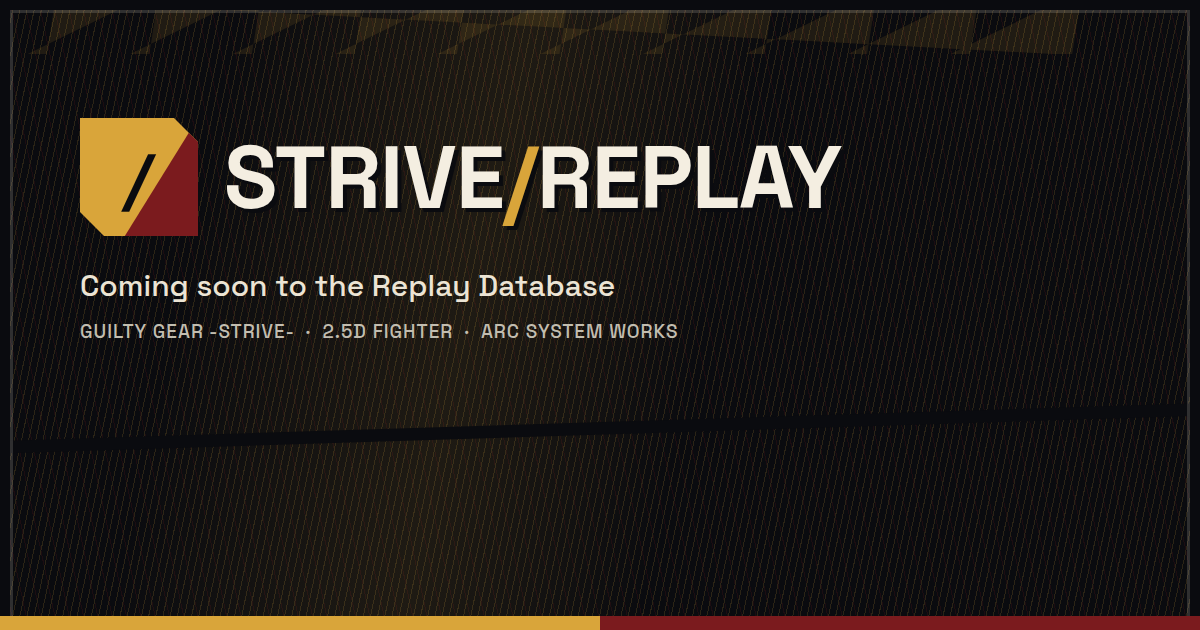
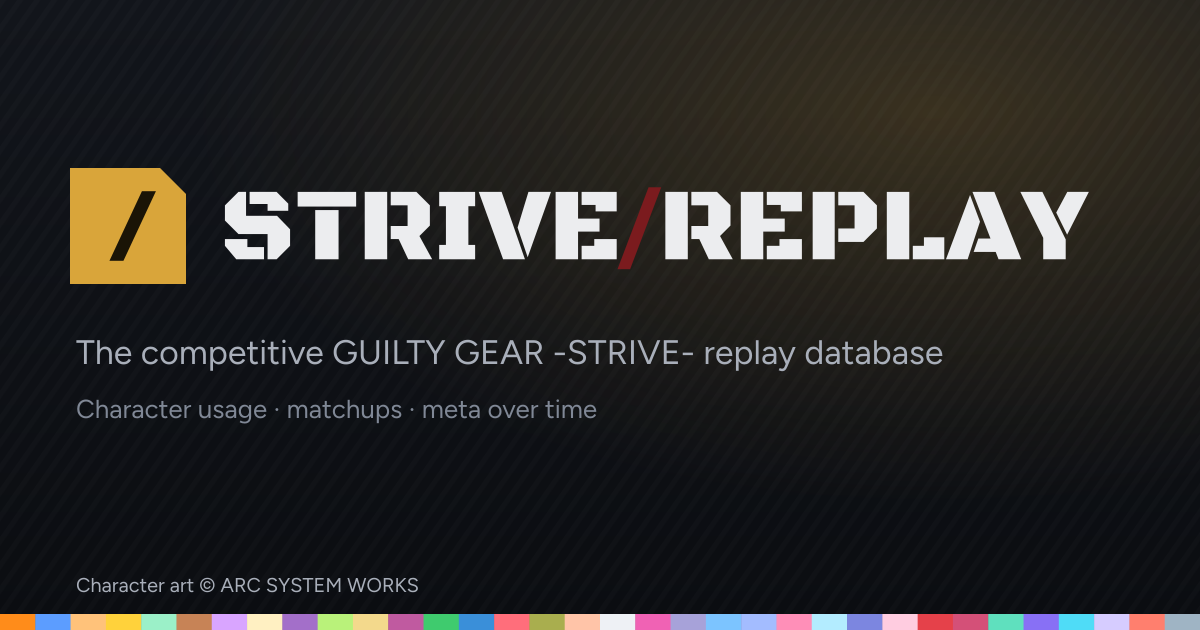
GUILTY GEAR -STRIVE- moves from Coming Soon to the sixth card
One commit, because half a flip is a broken front door: the card, the
rewrites, the sitemap, the JSON-LD, the changelog scope and every gate
fixture that restates them have to land together or the build is either
advertising a game it cannot route to or routing to a game it does not list.

A promotion is a subtraction from UPCOMING and an append to GAMES, and the two
types share only five fields. `fullName` is DROPPED (ShellGame has no such
field), so GUILTY GEAR -STRIVE- leaves the DOM at promotion and lives in the
card art alone, exactly as MARVEL Tōkon's and FATAL FURY's do. The card
carries the short 'Guilty Gear Strive'; verify-cutover asserts the full
spelling against summary.json, which is the one place it is still checked.

The card art is now a byte-copy of the game's own public/og-default.png. It
had to be: the coming-soon art says "Coming soon to the Replay Database" in
40px type, so leaving it would have shipped a live, clickable card advertising
itself as unavailable. The swap also carries "Character art © ARC SYSTEM
WORKS" onto the front door, baked into the image — the Fan Kit licence's
Article 3.1 attribution travelling with the art it covers.

The accent did NOT move. Tōkon's card followed its game at flip time
(#00a6ff → #03a5fe) and the rule is that the theme wins, so this is worth
saying: the shipped skin resolved the gold-foil capsule to #d9a53a, the same
hex the handoff had anchored, and there was nothing to follow. Its two tight
[…]

diff --git a/lib/games.ts b/lib/games.ts
@@ -180,6 +180,56 @@ export const GAMES: ShellGame[] = [
     sitemapUrl: `${SITE_URL}/ffcotw/sitemap.xml`,
     summaryUrl: '/ffcotw/data/summary.json',
   },
+  {
+    // Game #6, appended per the note above — and the first PROMOTION out of
+    // UPCOMING since Tōkon's. Its coming-soon card is retired in this same
+    // commit, which is what the `art` swap below is really about: the announced
+    // art says "Coming soon to the Replay Database" in 40px type, so leaving it
+    // would ship a live, clickable card advertising itself as unavailable.
+    id: 'ggst',
+    // The short form, parallel to 'MARVEL Tōkon' and 'FATAL FURY: CotW'. The
+    // official title is GUILTY GEAR -STRIVE-, and its hyphen-flanked wordmark
+    // both wraps in the title column and reads as a stray dash where it breaks.
+    // The full spelling survives in the card art, which sets it in the lockup.
+    // NOTE: verify-cutover.mjs must use the FULL title in its own table — it
+    // asserts against summary.json, which the game emits with the full name.
+    name: 'Guilty Gear Strive',
+    shortName: 'STRIVE',
+    slug: 'ggst',
+    url: '/ggst',
+    // The game's theme.css --color-primary. UNCHANGED from the coming-soon
+    // card's provisional value, which is worth saying out loud because the rule
+    // is that the theme wins at flip time and Tōkon's card really did move
+    // (#00a6ff → #03a5fe): this skin resolved the gold-foil capsule to the same
+    // hex the handoff had anchored, so there was nothing to follow. Its two
+    // tight neighbours are unchanged with it — CotW's #ffd21f at Δhue 11 with
+    // ΔL .125 against a .12 floor, and the engine's umbrella --color-secondary
+    // #fbc318 at Δhue 5 with ΔL .00, separated on chroma alone. Anyone
+    // re-sampling this gold has to clear BOTH, not just the live accents.
+    accent: '#d9a53a',
+    // A byte-copy of the game repo's own public/og-default.png, the way 2XKO,
+    // Tekken, SF6 and CotW's were made. This one carries "Character art
+    // © ARC SYSTEM WORKS" baked into the image — the Fan Kit licence's
+    // Article 3.1 attribution travelling with the art onto the front door. It
+    // is the only card art here with a licence obligation attached, so it may
+    // be re-exported from that repo but never cropped past the notice.
+    // It inherits the copy-line disagreement described on `art` above: the
+    // lockup reads "Character usage · matchups · meta over time" while the
+    // tagline says something else entirely. Accepted on the same terms as the
+    // other five — ~5px on a rendered card — not overlooked.
+    art: '/img/games/ggst.png',
+    // NO hover loop, deliberately: CotW shipped its own flip without one and
+    // gained it in a later commit, and the field is optional precisely so a
+    // launch is not gated on trimming a trailer. This card shows static art.
+    // The archive's own shape is the line worth having here, and no sibling can
+    // claim it: the eight channels upload whole SETS (every one's median run
+    // is over three and a half minutes, against a ~3-minute Strive game), while
+    // the Replay Theater catalogue contributes single matches cut out of
+    // tournament VODs at an offset. Not a count, and it cannot go stale.
+    tagline: 'Whole sets, and matches cut from tournament streams',
+    sitemapUrl: `${SITE_URL}/ggst/sitemap.xml`,
+    summaryUrl: '/ggst/data/summary.json',
+  },
 ];
 
 /**
@@ -237,9 +287,17 @@ export interface UpcomingGame {
   tagline: string;
 }
 
-// Empty from 2026-08-14 (MARVEL Tōkon's promotion into GAMES) until these three
-// were announced. The narrow type above is what kept that window honest, and it
-// is what keeps these three out of the sitemap index and the ItemList now.
+// Empty from 2026-08-14 (MARVEL Tōkon's promotion into GAMES) until three games
+// were announced; two, since Guilty Gear Strive was promoted into GAMES on
+// 2026-09-09. The narrow type above is what kept that window honest, and it is
+// what keeps the remaining two out of the sitemap index and the ItemList now.
+//
+// PROMOTING ONE IS A SUBTRACTION HERE AND AN APPEND THERE, in the same commit.
+// Strive's entry did not move between the arrays: UpcomingGame and ShellGame
+// share only five of their fields, so `fullName` was DROPPED (ShellGame has no
+// such field) and `url`, `sitemapUrl` and `summaryUrl` were added. The full
+// title therefore leaves the DOM at promotion — it lives in the card art and
+// nowhere else, exactly as MARVEL Tōkon's and FATAL FURY's do.
 //
 // ORDER IS DISPLAY ORDER. Unlike GAMES — where APPEND-don't-insert protects a
 // POSITIONAL JSON-LD gate — this array reaches only the card grid, which renders
@@ -253,41 +311,12 @@ export interface UpcomingGame {
 // At flip time THE THEME WINS: Tōkon's card carried #00a6ff and the shipped skin
 // resolved to #03a5fe, and the card followed the game rather than the reverse.
 //
-// The separation rule every one of them clears, against all five live accents,
-// the umbrella teal, and each other: OKLCH Δhue ≥ 25, or Δhue ≥ 10 with
-// |ΔL| ≥ .12. It is the rule the game skins already use, and it is why FATAL
-// FURY demoted its own sampled red (11° from Tekken) to secondary.
+// The separation rule every one of them clears, against all SIX live accents
+// (Strive's gold joined that set when it was promoted), the umbrella teal, and
+// each other: OKLCH Δhue ≥ 25, or Δhue ≥ 10 with |ΔL| ≥ .12. It is the rule the
+// game skins already use, and it is why FATAL FURY demoted its own sampled red
+// (11° from Tekken) to secondary.
 export const UPCOMING: UpcomingGame[] = [
-  {
-    id: 'ggst',
-    // GUILTY GEAR -STRIVE- — developed AND published by Arc System Works,
-    // verified on guiltygear.com/ggst/en/ (© ARC SYSTEM WORKS) and
-    // arcsystemworks.com/game/guilty-gear-strive/. The vendor's own line for it
-    // is "The ever-evolving 2.5D fighting game", which is where the tagline's
-    // "ever-evolving 2.5D fighter" comes from rather than from anyone's memory.
-    // THIS IS THE ONE CARD THAT KEEPS THE ASW CREDIT. It closed the Granblue
-    // line and Tōkon's too until this pass, which had three of eight cards
-    // ending the same way; Strive is where it belongs, because ASW developed
-    // AND published this one.
-    name: 'Guilty Gear Strive',
-    fullName: 'GUILTY GEAR -STRIVE-',
-    shortName: 'STRIVE',
-    slug: 'ggst',
-    // PROVISIONAL, and the one accent here that may still move: it is
-    // --color-primary from the in-progress skin
-    // (ggst-replay-database/design/handoff/tokens.css), whose own header calls
-    // the gold anchored-but-unsampled — it comes from the gold-foil logo
-    // variant on the store capsules, not from a pixel sample.
-    // GOLD RATHER THAN THE LOGO'S RED, by that skin's collision lever: the
-    // sampled letterform red is #7b1b1e, and at any lightness that could carry
-    // text it lands on Tekken's #e13048. FATAL FURY demoted its own red for the
-    // same reason; neither game ships red-primary.
-    // Tightest neighbour is FATAL FURY's #ffd21f at Δhue 11 — cleared on
-    // lightness alone, ΔL .125, right at the .12 floor. Δhue 30 from SF6.
-    accent: '#d9a53a',
-    art: '/img/games/ggst.png',
-    tagline: "Arc System Works' ever-evolving 2.5D fighter",
-  },
   {
     id: 'avatar',
     // Avatar Legends: The Fighting Game. The studio credits are the one fact
@@ -332,11 +361,16 @@ export const UPCOMING: UpcomingGame[] = [
     // Granblue Fantasy Versus: Rising — "© Cygames, Inc. Developed by ARC
     // SYSTEM WORKS", verbatim from the footer of the official site
     // rising.granbluefantasy.jp/en/about. That single line is both credits, and
-    // the tagline carried both until this pass. It names CYGAMES ONLY now: ASW
-    // also closed the Strive line two entries up, and a reader scanning eight
-    // cards met the same four words twice. Cygames is the rights holder, which
-    // is the half that identifies the game; the ASW credit survives on Strive,
-    // where that studio is developer and publisher both.
+    // the tagline carried both until the 2026-09-06 copy pass. It names CYGAMES
+    // ONLY: ASW closed the Strive line two entries up as well, and a reader
+    // scanning eight cards met the same four words twice. Cygames is the rights
+    // holder, which is the half that identifies the game.
+    // THE REASON HAS SINCE EXPIRED AND THE LINE IS KEPT ANYWAY. Strive was
+    // promoted into GAMES on 2026-09-09 and a live card's tagline describes its
+    // ARCHIVE, not its studio, so no card names ASW now and the duplication
+    // this line was shortened to avoid cannot recur. Restoring the developer
+    // credit here would be a copy change made for a reason that no longer
+    // holds; naming the rights holder was the better line on its own merits.
     name: 'Granblue Rising',
     fullName: 'Granblue Fantasy Versus: Rising',
     shortName: 'GBVSR',

diff --git a/lib/changelog.ts b/lib/changelog.ts
@@ -53,12 +53,16 @@
  * scope-to-accent mapping therefore lives in app/pages/changelog.vue.
  */
 
-/** Which part of the platform a change belongs to. The four game slugs match
+/** Which part of the platform a change belongs to. The six game slugs match
  *  ShellGame.slug in lib/games.ts (NOT .id — Tekken's id is 'tekken8'), which
  *  is how the page finds each badge's accent. 'platform' is a change all games
- *  got at once; 'engine' and 'shell' are the shared layer and the apex. */
+ *  got at once; 'engine' and 'shell' are the shared layer and the apex.
+ *  Adding one is three edits, and only the first is type-checked: this union,
+ *  SCOPES in scripts/verify-changelog.mjs, and SCOPE_LABELS in
+ *  app/pages/changelog.vue. The last is a Record<Scope, string>, so omitting it
+ *  is a typecheck failure rather than a badge that quietly renders its slug. */
 export type Scope =
-  'platform' | 'engine' | 'shell' | '2xko' | 'tekken' | 'sf6' | 'tokon' | 'ffcotw';
+  'platform' | 'engine' | 'shell' | '2xko' | 'tekken' | 'sf6' | 'tokon' | 'ffcotw' | 'ggst';
 
 /** launch = a game or the platform itself going live · feature = something new
  *  to use · data = matches or fields arriving · improvement = something that
@@ -80,6 +84,48 @@ export interface ChangelogEntry {
 }
 
 export const CHANGELOG: ChangelogEntry[] = [
+  {
+    // ggst-replay-database, launch. Every number frozen from that repo's
+    // data/replays.json on 2026-09-09: 24,706 published records, 7,966 of which
+    // carry a startSeconds (the Replay Theater segments), 8,245 from that
+    // catalogue in total, and 1,288 on Ver 2.02, the newest patch. Earliest
+    // record 2020-04-18, a closed-beta build fourteen months before the June
+    // 2021 release; the pre-release era runs to Ver 1.03.
+    //
+    // "SETS", NOT "MATCHES", and this is the one word the entry turns on. CotW's
+    // row and SF6's both say matches, correctly for their sources; copying them
+    // here would have been wrong. A Strive game runs about three minutes (the
+    // catalogue's own same-pair gap median is 196s) and every intake channel's
+    // p10 upload is at least 3m35 with medians from 5m21 to 10m30, so a channel
+    // upload is a whole set. The single exception is the frozen ggstLowLevel,
+    // and it contributes 19 records. The segments are the other half of the
+    // sentence: those ARE single matches, cut at an offset out of an event
+    // stream, which is why the body can say both without contradicting itself.
+    // "short clips" covers ggstHq's Shorts, median exactly 60s, which is why
+    // that channel carries a 30-second duration floor where the platform
+    // default is 120.
+    //
+    // SEASON HONESTY, STATED OUT LOUD, because the filter default depends on it:
+    // the patch filter defaults to the WHOLE archive and offers seasons above
+    // patches, and the reason is that the current patch is 5.2% of what is here.
+    // A patch-first default would have shown a visitor one twentieth of the
+    // archive and looked like the archive.
+    //
+    // EVO IS DELIBERATELY NOT NAMED. Strive is an Evo main game and the
+    // temptation is real, but the catalogue holds 107 Evo rows out of 22,000,
+    // essentially 2021 and 2022 with a token tail. Naming it would promise a
+    // depth this archive does not have.
+    //
+    // The roster count is absent on purpose, exactly as CotW's row omitted its
+    // own: two Season 5 characters are announced and unnamed (Winter 2026 and
+    // Spring 2027 on ArcSys's store page), so any fighter number goes stale
+    // inside a season. The record count is a frozen launch delta and does not.
+    date: '2026-09-09',
+    scope: 'ggst',
+    kind: 'launch',
+    title: 'GUILTY GEAR -STRIVE- joins the archive',
+    body: 'GUILTY GEAR -STRIVE- joins Replay Database with 24,706 replays, running from an April 2020 pre-release build through Season 5. Most are whole sets and short clips rather than single matches, because that is what the channels upload; 7,966 are tournament matches cut from event streams, so opening one starts the video at that match rather than at the top of the bracket. Every patch in the game history is represented, and at launch the current one held 1,288 of those replays, so the filters open on the whole archive and offer seasons before patches. Footage from before the June 2021 release is filed under its own era, so a season filter leaves it out.',
+  },
   {
     // shell, this commit. Scope 'shell': the games' data is untouched, only the
     // front door that lists them.

diff --git a/app/pages/index.vue b/app/pages/index.vue
@@ -165,11 +165,19 @@
              The affordance is therefore the PERSISTENT badge — always rendered,
              always in the accessibility tree — not a hover reveal, which would
              leave the card looking simply broken on touch.
-             With an odd LIVE count and three announced games, every regime
-             puts a live card beside an announced one in some row — row 3 at
-             2-up, row 2 at 3-up. That row has to sit level with a card that
-             renders a replay count against one that never will, which is
-             exactly what the reserved .count-slot below buys. -->
+             NO REGIME HAS A MIXED ROW TODAY, and this comment used to claim
+             every one did. That was true at five live cards and three
+             announced; Strive's promotion on 2026-09-09 made it six and two,
+             which packs as [3,3][2] at 3-up and [2,2,2][2] at 2-up — every row
+             is all-live or all-announced, and at 1-up nothing shares a row at
+             all. So the reserved .count-slot below is DORMANT, not load-bearing,
+             and nothing in the gates would notice if it were deleted: the
+             `every grid row is level` check passes either way while the counts
+             happen to be even. It stays because the next promotion or the next
+             announcement re-creates the mixed row — it was dormant from Tōkon's
+             promotion until CotW's launch for exactly the same reason — and
+             because a card that changes height when its neighbour's count
+             resolves is the regression it was written to prevent. -->
         <article
           v-for="u in upcoming"
           :key="u.id"
@@ -210,10 +218,12 @@
               u.tagline
             }}</span>
             <!-- Matches the live cards' reserved count line so this card's
-                 height stays theirs — and every regime now has a MIXED row, so
-                 it is levelling against a card that actually has a count rather
-                 than against another blank. NOT class="count" — that's a gate
-                 hook and the gates count non-empty ones.
+                 height stays theirs. At six live and two announced it levels
+                 against the other announced card — another blank — because no
+                 regime pairs a live card with an announced one any more; see
+                 the grid comment above for why it is kept regardless.
+                 NOT class="count" — that's a gate hook and the gates count
+                 non-empty ones.
                  Its live counterpart shares its row with the "Browse →" CTA;
                  there is no CTA here, so this is a bare reserved line. -->
             <span
@@ -353,7 +363,7 @@ useSiteMeta({
     // LIVE games only. The announced ones on the selector stay out: this is the
     // search snippet, and promising a game a visitor cannot browse is the same
     // lie the UPCOMING type forbids in the sitemap and the ItemList.
-    'The competitive fighting-game replay archive. Browse and filter replays for 2XKO, Tekken 8, Street Fighter 6, MARVEL Tōkon and FATAL FURY: City of the Wolves — character usage, matchups, pairings, and meta over time, all in one place.',
+    'The competitive fighting-game replay archive. Browse and filter replays for 2XKO, Tekken 8, Street Fighter 6, MARVEL Tōkon, FATAL FURY: City of the Wolves and Guilty Gear Strive — character usage, matchups, pairings, and meta over time, all in one place.',
 });
 
 // ItemList JSON-LD enumerating the games (PLAN §5 A.6) — the apex's structured
@@ -416,9 +426,10 @@ useJsonLd([
   line-height: 1.25rem;
 }
 /* The hero pill swaps its text client-side too, and the upgraded string
-   ("39,189 replays across 5 games" — LIVE games only, announced ones never
-   reach this count) wraps to two lines on narrow viewports
-   where the fallback ("4 games in the archive") does not — which pushed the
+   ("39,189 replays across 5 games" as measured when this was written — LIVE
+   games only, announced ones never reach this count; it reads six games and a
+   far larger total since Strive) wraps to two lines on narrow viewports
+   where the fallback ("6 games in the archive") does not — which pushed the
    whole card grid down 18px the moment the counts landed (measured at 320 and
    360 px). Below sm, reserve both lines up front; from sm up neither string
    wraps, so the pill keeps its natural single-line height. The breakpoint is

diff --git a/app/pages/changelog.vue b/app/pages/changelog.vue
@@ -106,6 +106,7 @@ const SCOPE_LABELS: Record<Scope, string> = {
   sf6: 'SF6',
   tokon: 'Tōkon',
   ffcotw: 'CotW',
+  ggst: 'Strive',
 };
 const scopeLabel = (scope: Scope): string => SCOPE_LABELS[scope] ?? scope;
 

diff --git a/README.md b/README.md
@@ -215,13 +215,23 @@ checking that limit first.
    proxied build will resolve its assets against the wrong base.
 5. `npm run generate && npm run verify:shell`, then
    `node scripts/simulate-topology.mjs` to exercise the routing before deploying.
-6. Add `<slug>-replay-database` to `GAMES` in `../fetch-and-pull.sh` and to
-   `APPS` in `../commit-and-push.sh`. Miss this and the clone falls behind its
-   own daily `data: refresh` commits and never gets pushed —
-   `commit-and-push.sh`'s `drift_check` warns about it, but only once you run
-   the script. If the app's `npm run typecheck` ends in a repo-local data
-   validator (`scripts/patches.ts --check` and friends), give it a `GATE_CMD`
-   entry there too, so a failed validator isn't read as a bad engine pin.
+6. Register the repo in **all three** workspace scripts, which is one edit each
+   and four maps in total:
+   - `GAMES` in `../fetch-and-pull.sh`;
+   - `APPS` in `../commit-and-push.sh`, plus a `GATE_CMD` entry there if the
+     app's `npm run typecheck` ends in a repo-local data validator
+     (`scripts/seasons.ts --check`, `scripts/redirects.ts --check` and friends),
+     so a failed validator isn't read as a bad engine pin;
+   - `GAMES`, `REPO_OF` and `SCRIPT_OF` in `../check-patches.sh`, **and the bare
+     game list in its "unknown game:" error string**, which is a fourth literal
+     no map covers.
+     Miss the first two and the clone falls behind its own daily `data: refresh`
+     commits and never gets pushed — `commit-and-push.sh`'s `drift_check` warns
+     about it, but only once you run the script. Miss `check-patches.sh` and the
+     new game's patch table is simply never checked, with nothing to say so. This
+     step named only the first two scripts until now: CotW was registered in
+     `check-patches.sh` anyway, by someone who knew to look, which is exactly the
+     kind of knowledge a procedure exists to stop depending on.
 7. **Add the changelog entry in the same commit** — a new game is always worth
    one. See "Maintaining the changelog" below for what an entry says.
 
